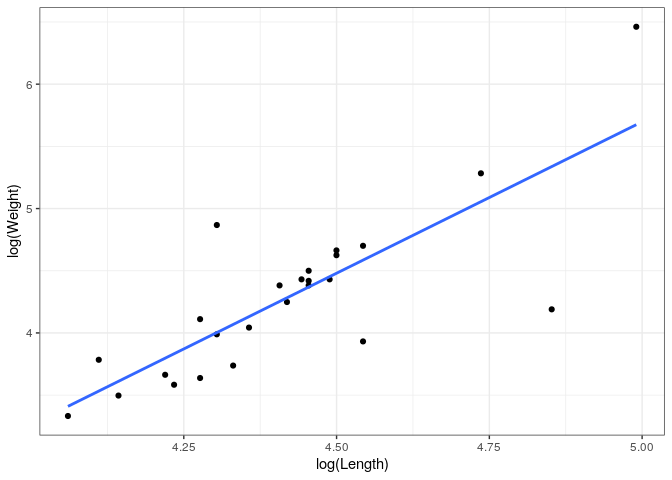
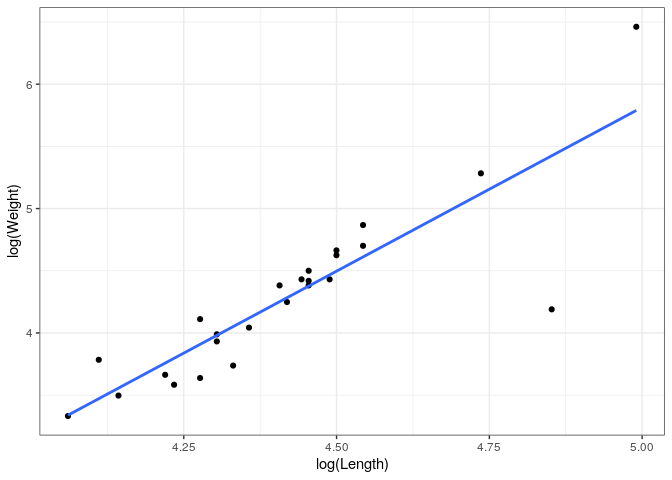
14-1-20-2

diff --git a/Answer-linmod.md b/Answer-linmod.md
@@ -153,8 +153,12 @@ error of 1.0723
 
 ## 3a
 
+Data can be directly read from github. First give the adress in a
+variable and then read the file:
+
 ``` r
-lm3 <- read.table("aligator.txt",header=TRUE)
+adress <- "https://raw.github.com/janvdbroek/Generalized-Linear-Models/master/aligator.txt"
+lm3 <- read.table(adress,header=TRUE)
 ```
 
 or with read in the data with the rstudio menu: import dataset, from
@@ -185,13 +189,13 @@ ggplot(lm3,aes(y=log(Weight),x=log(Length)))+
 cor(lm3$Length,lm3$Weight)
 ```
 
-    ## [1] 0.7539555
+    ## [1] 0.7812519
 
 ``` r
 cor(log(lm3$Length),log(lm3$Weight))
 ```
 
-    ## [1] 0.8022409
+    ## [1] 0.8680974
 
 The log version is a better.
 
@@ -208,20 +212,20 @@ summary(Wght.fit)
     ## 
     ## Deviance Residuals: 
     ##      Min        1Q    Median        3Q       Max  
-    ## -1.14760  -0.11467   0.01308   0.14533   0.86451  
+    ## -1.23474  -0.06012   0.00835   0.13092   0.67242  
     ## 
     ## Coefficients:
     ##             Estimate Std. Error t value Pr(>|t|)    
-    ## (Intercept)  -6.4768     1.6704  -3.877 0.000762 ***
-    ## log(Length)   2.4349     0.3778   6.445 1.41e-06 ***
+    ## (Intercept)  -7.3595     1.3889  -5.299 2.23e-05 ***
+    ## log(Length)   2.6348     0.3141   8.387 1.89e-08 ***
     ## ---
     ## Signif. codes:  0 '***' 0.001 '**' 0.01 '*' 0.05 '.' 0.1 ' ' 1
     ## 
-    ## (Dispersion parameter for gaussian family taken to be 0.1598641)
+    ## (Dispersion parameter for gaussian family taken to be 0.1105235)
     ## 
-    ##     Null deviance: 10.3164  on 24  degrees of freedom
-    ## Residual deviance:  3.6769  on 23  degrees of freedom
-    ## AIC: 29.027
+    ##     Null deviance: 10.316  on 24  degrees of freedom
+    ## Residual deviance:  2.542  on 23  degrees of freedom
+    ## AIC: 19.799
     ## 
     ## Number of Fisher Scoring iterations: 2
 
@@ -238,8 +242,8 @@ drop1(Wght.fit,test="F")
     ## Model:
     ## log(Weight) ~ log(Length)
     ##             Df Deviance    AIC F value    Pr(>F)    
-    ## <none>           3.6769 29.027                      
-    ## log(Length)  1  10.3164 52.818  41.532 1.413e-06 ***
+    ## <none>            2.542 19.799                      
+    ## log(Length)  1   10.316 52.818  70.341 1.889e-08 ***
     ## ---
     ## Signif. codes:  0 '***' 0.001 '**' 0.01 '*' 0.05 '.' 0.1 ' ' 1
 
@@ -447,7 +451,8 @@ the difference in slope and/or intercept).
 ## 5a
 
 ``` r
-lm5 <- read.table("lowbirth.dat",header=TRUE)
+adress <- "https://raw.github.com/janvdbroek/Generalized-Linear-Models/master/lowbirth.dat"
+lm5 <- read.table(adress,header=TRUE)
 #
 fit.0 <- glm(bwt~ht+smoke+age+smoke:ht+age:ht,data = lm5)
 drop1(fit.0,test="F")

diff --git a/Answer-logreg1.md b/Answer-logreg1.md
@@ -6,7 +6,8 @@ Answers to exercises “Binary data: Logistic regression” part 1
 ## 1a
 
 ``` r
-lr1 <- read.table("episode.txt",header=TRUE)
+adress <- "https://raw.github.com/janvdbroek/Generalized-Linear-Models/master/episode.txt"
+lr1 <- read.table(adress,header=TRUE)
 lr1$immune <- 1*(lr1$cd4<200)
 epifit.1 <- glm(episode~immune,family=binomial,data = lr1)
 summary(epifit.1)
@@ -113,7 +114,8 @@ so here the odds per unit time is modelled.
 ## 2a
 
 ``` r
-lr2 <-read.table("lowbirth.dat",header=TRUE)
+adress <- "https://raw.github.com/janvdbroek/Generalized-Linear-Models/master/lowbirth.dat"
+lr2 <-read.table(adress,header=TRUE)
 ```
 
 ## 2b
@@ -163,7 +165,8 @@ The mdel with smoke has lowest AIC although the model with ht is close.
 ## 3a
 
 ``` r
-lr3 <- read.table("pdd.csv",header=TRUE,sep=",")
+adress <- "https://raw.github.com/janvdbroek/Generalized-Linear-Models/master/pdd.csv"
+lr3 <- read.table(adress,header=TRUE,sep=",")
 ```
 
 ## 3b
@@ -240,7 +243,8 @@ exp(coef(pdd.fit))
 ## 4a
 
 ``` r
-lr4 <- read.table("dalmatian.csv",header=TRUE,sep=",")
+adress <- "https://raw.github.com/janvdbroek/Generalized-Linear-Models/master/dalmatian.csv"
+lr4 <- read.table(adress,header=TRUE,sep=",")
 ```
 
 or with the rstudio menu. \#\# 4b See the explanatipon in the text

diff --git a/Answer-poisson.md b/Answer-poisson.md
@@ -6,7 +6,8 @@ Answers to exercizes “count data: poison models”
 ## 1a
 
 ``` r
-p1 <- read.table("cancer",header=TRUE)
+adress <- "https://raw.github.com/janvdbroek/Generalized-Linear-Models/master/cancer"
+p1 <- read.table(adress,header=TRUE)
 cancer.fit <- glm(cases~factor(age)+factor(city)+
                     offset(log(pop/1000)),family=poisson,data=p1)
 ```
@@ -137,7 +138,8 @@ The mean number of cancer cases per 1000 individuals in agegroup 5 is
 ## 2a
 
 ``` r
-p2 <- read.table("coronary",header=TRUE)
+adress <- "https://raw.github.com/janvdbroek/Generalized-Linear-Models/master/coronary"
+p2 <- read.table(adress,header=TRUE)
 ```
 
 ## 2b
@@ -353,7 +355,8 @@ fitting is not done yet. See dependent data.
 # Exercise 4
 
 ``` r
-p4 <- read.table("BeetleEggCrowding.txt",header = TRUE)
+adress <- "https://raw.github.com/janvdbroek/Generalized-Linear-Models/master/BeetleEggCrowding.txt"
+p4 <- read.table(adress,header = TRUE)
 negg.fit <- glm(NumEggs~factor(Temp)+factor(TRT)+
                   factor(Temp):factor(TRT),
                 family = poisson,data=p4)

diff --git a/Answer-logreg2.md b/Answer-logreg2.md
@@ -6,7 +6,8 @@ Answers to exercises “Binary data: Logistic regression” part 2
 ## 1a
 
 ``` r
-lr5 <- read.table("osteochon.csv",header=TRUE,sep=",")
+adress <- "https://raw.github.com/janvdbroek/Generalized-Linear-Models/master/osteochon.csv"
+lr5 <- read.table(adress,header=TRUE,sep=",")
 ```
 
 ## 1b
@@ -119,7 +120,8 @@ course a description of the variables is also needed.)
 ## 2a
 
 ``` r
-lr1 <- read.table("episode.txt",header=TRUE)
+adress <- "https://raw.github.com/janvdbroek/Generalized-Linear-Models/master/episode.txt"
+lr1 <- read.table(adress,header=TRUE)
 lr1$immune <- 1*(lr1$cd4<200)
 ```
 
@@ -336,10 +338,11 @@ to the conclusion do not reject when tested in a null-hypothesis.
 
 # Exercise 4
 
-# 1a
+# 4a
 
 ``` r
-lr2 <-read.table("lowbirth.dat",header=TRUE)
+adress <- "https://raw.github.com/janvdbroek/Generalized-Linear-Models/master/lowbirth.dat"
+lr2 <-read.table(adress,header=TRUE)
 low.fit <- glm(low~age+lwt+factor(race)+smoke+factor(ptl)+
                  ht+ui+factor(ftv),family=binomial,data=lr2)
 step(low.fit)
